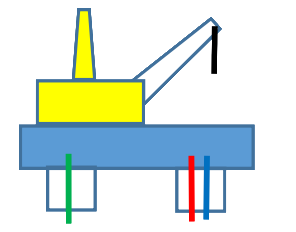
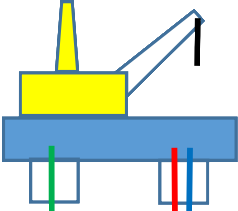
fixed few issues

Changed region(s): [[0.0, 0.0, 1.0, 1.0]]

diff --git a/src/component2_node.js b/src/component2_node.js
@@ -1,29 +1,74 @@
-import { memo } from 'react';
-import { Handle, Position } from 'reactflow';
+import React, { useEffect, useState, useRef } from "react";
+import { memo } from "react";
+import { Handle, Position, useUpdateNodeInternals } from "reactflow";
+import { drag } from "d3-drag";
+import { select } from "d3-selection";
+import styles from "./style.module.css";
 
-import { NodeResizer } from '@reactflow/node-resizer';
+import { NodeResizer } from "@reactflow/node-resizer";
 
 import component from './assets/component2.png';
 
 import '@reactflow/node-resizer/dist/style.css';
 
+let handleStyleA = { top: 19 };
+let handleStyleB = { top: 44 };
+const handleStyleC = { top:  68};
+const handleStyleD = { top: 29 };
+const handleStyleE = { top: 59 };
 
-const handleStyleA = { top: 35 };
-const handleStyleB = { top: 90 };
-const handleStyleC = { top: 65 };
-const handleStyleD = { top: 45 };
-const handleStyleE = { top: 80 };
+const ResizableNodeSelected = ({ id,data }) => {
+  const rotateControlRef = useRef(null);
+  const updateNodeInternals = useUpdateNodeInternals();
+  const [rotation, setRotation] = useState(0);
+  const [resizable, setResizable] = useState(true);
+  const [rotatable, setRotatable] = useState(true);
+  useEffect(() => {
+    if (!rotateControlRef.current) {
+      return;
+    }
 
-const ResizableNodeSelected = ({ data, selected }) => {
+    const selection = select(rotateControlRef.current);
+    const dragHandler = drag().on("drag", (evt) => {
+      const dx = evt.x - 100;
+      const dy = evt.y - 100;
+      const rad = Math.atan2(dx, dy);
+      const deg = rad * (180 / Math.PI);
+      setRotation(180 - deg);
+      updateNodeInternals(id);
+    });
+
+    selection.call(dragHandler);
+  }, [id, updateNodeInternals]);
+
+
     return (
         <>
-            <NodeResizer color="#ff0071" isVisible={selected} minWidth={100} minHeight={30} />
+        <div
+        style={{
+          transform: `rotate(${rotation}deg)`,
+        }}
+        className={styles.node}
+      >
+            <NodeResizer
+        color="#000000"
+        isVisible={resizable}
+        minWidth={10}
+        minHeight={10}
+        
+      />
             <Handle type="target" position={Position.Left} id="c2_input1" style={handleStyleA} />
             <Handle type="target" position={Position.Left} id="c2_input2" style={handleStyleB} />
             <Handle type="target" position={Position.Left} id="c2_input3" style={handleStyleC} />
-            <div style={{ padding: 10 }}><img src={component} alt="Component2"></img></div>
+            <img height="100%" width="100%" src={component} alt="Component2"></img>
             <Handle type="source" position={Position.Right} id="c2_output1" style={handleStyleD} />
             <Handle type="sorce" position={Position.Right} id="c2_output2" style={handleStyleE} />
+            <div ref={rotateControlRef}
+          style={{
+            display: rotatable ? 'block' : 'none',
+          }}
+          className={`nodrag ${styles.rotateHandle}`} ></div>   
+          </div>
         </>
     );
 };

diff --git a/src/component3_node.js b/src/component3_node.js
@@ -1,5 +1,9 @@
-import { memo } from 'react';
-import { Handle, Position } from 'reactflow';
+import React, { useEffect, useState, useRef } from "react";
+import { memo } from "react";
+import { Handle, Position, useUpdateNodeInternals } from "reactflow";
+import { drag } from "d3-drag";
+import { select } from "d3-selection";
+import styles from "./style.module.css";
 
 import { NodeResizer } from '@reactflow/node-resizer';
 
@@ -7,19 +11,62 @@ import component from './assets/component3.png';
 
 import '@reactflow/node-resizer/dist/style.css';
 
-const handleStyleA = { left: 80 };
-const handleStyleB = { left: 200 };
-const handleStyleC = { left: 220 };
+const handleStyleA = { left: 52 };
+const handleStyleB = { left: 175 };
+const handleStyleC = { left: 190 };
 
 
-const ResizableNodeSelected = ({ data, selected }) => {
+const ResizableNodeSelected = ({ id, data}) => {
+
+    const rotateControlRef = useRef(null);
+  const updateNodeInternals = useUpdateNodeInternals();
+  const [rotation, setRotation] = useState(0);
+  const [resizable, setResizable] = useState(true);
+  const [rotatable, setRotatable] = useState(true);
+
+  useEffect(() => {
+    if (!rotateControlRef.current) {
+      return;
+    }
+
+    const selection = select(rotateControlRef.current);
+    const dragHandler = drag().on("drag", (evt) => {
+      const dx = evt.x - 100;
+      const dy = evt.y - 100;
+      const rad = Math.atan2(dx, dy);
+      const deg = rad * (180 / Math.PI);
+      setRotation(180 - deg);
+      updateNodeInternals(id);
+    });
+
+    selection.call(dragHandler);
+  }, [id, updateNodeInternals]);
+
     return (
         <>
-            <NodeResizer color="#ff0071" isVisible={selected} minWidth={100} minHeight={30} />
-            <div style={{ padding: 10 }}><img src={component} alt="Component3"></img></div>
+            <div
+        style={{
+          transform: `rotate(${rotation}deg)`,
+        }}
+        className={styles.node}
+      >
+            <NodeResizer
+        color="#000000"
+        isVisible={resizable}
+        minWidth={100}
+        minHeight={30}
+      />
+      <div ref={rotateControlRef}
+          style={{
+            display: rotatable ? 'block' : 'none',
+          }}
+          className={`nodrag ${styles.rotateHandle}`} ></div>
+            <NodeResizer color="#000000" isVisible={resizable} minWidth={100} minHeight={30} />
+            <div style={{ padding: 0 }}><img src={component} alt="Component3"></img></div>
             <Handle type="target" position={Position.Bottom} id="a" style={handleStyleA} />
+            {/* <Handle type="source" position={Position.Bottom} id="a" style={handleStyleA} /> */}
             <Handle type="target" position={Position.Bottom} id="b" style={handleStyleB} />
-            <Handle type="target" position={Position.Bottom} id="c" style={handleStyleC} />
+            <Handle type="target" position={Position.Bottom} id="c" style={handleStyleC} /></div>
 
         </>
     );

diff --git a/src/component1_node.js b/src/component1_node.js
@@ -1,21 +1,69 @@
-import { memo } from 'react';
-import { Handle, Position } from 'reactflow';
+import React, { useEffect, useState, useRef } from "react";
+import { memo } from "react";
+import { Handle, Position, useUpdateNodeInternals } from "reactflow";
+import { drag } from "d3-drag";
+import { select } from "d3-selection";
+import styles from "./style.module.css";
 
-import { NodeResizer } from '@reactflow/node-resizer';
+import { NodeResizer } from "@reactflow/node-resizer";
 
-import component from './assets/component1.png';
+import component from "./assets/component1.png";
 
-import '@reactflow/node-resizer/dist/style.css';
+import "@reactflow/node-resizer/dist/style.css";
 
-const ResizableNodeSelected = ({ data, selected }) => {
-    return (
-        <>
-            <NodeResizer color="#ff0071" isVisible={selected} minWidth={100} minHeight={30} />
+const ResizableNodeSelected = ({
+  id,
+  data,
+}) => {
+  const rotateControlRef = useRef(null);
+  const updateNodeInternals = useUpdateNodeInternals();
+  const [rotation, setRotation] = useState(0);
+  const [resizable, setResizable] = useState(true);
+  const [rotatable, setRotatable] = useState(true);
 
-            <div style={{ padding: 10 }}><img src={component} alt="Component1"></img></div>
-            <Handle type="source" position={Position.Right} />
-        </>
-    );
+  useEffect(() => {
+    if (!rotateControlRef.current) {
+      return;
+    }
+
+    const selection = select(rotateControlRef.current);
+    const dragHandler = drag().on("drag", (evt) => {
+      const dx = evt.x - 100;
+      const dy = evt.y - 100;
+      const rad = Math.atan2(dx, dy);
+      const deg = rad * (180 / Math.PI);
+    //   console.log(deg);
+      setRotation(180 - deg);
+      updateNodeInternals(id);
+    });
+
+    selection.call(dragHandler);
+  }, [id, updateNodeInternals]);
+
+  return (
+    <>
+      <div
+        style={{
+          transform: `rotate(${rotation}deg)`,
+          display: "flex",
+        }}
+        className={styles.node}
+      >
+        <img src={component} alt="Component1"></img>
+      <NodeResizer
+        color="#000000"
+        isVisible={resizable}
+        minWidth={0}
+        minHeight={0}
+      ></NodeResizer>
+      <div ref={rotateControlRef}
+          style={{
+            display: rotatable ? 'block' : 'none',
+          }}
+          className={`nodrag ${styles.rotateHandle}`} ></div>
+      <Handle type="source" position={Position.Right} /></div>
+    </>
+  );
 };
 
 export default memo(ResizableNodeSelected);

diff --git a/src/App.js b/src/App.js
@@ -1,6 +1,8 @@
 import React, { useState, useRef, useCallback } from 'react';
 
 import ReactFlow, {
+  Edge,
+  Position,
   ReactFlowProvider,
   addEdge,
   useNodesState,
@@ -9,7 +11,9 @@ import ReactFlow, {
   Background,
   updateEdge,
   ConnectionLineType,
-  MarkerType, useReactFlow,
+  MarkerType,
+  useOnSelectionChange,
+   useReactFlow,
   MiniMap,
 } from 'reactflow';
 import 'reactflow/dist/style.css';
@@ -30,7 +34,6 @@ import Snackbar from '@mui/material/Snackbar';
 import Tooltip from '@mui/material/Tooltip';
 
 import './index.css';
-
 
 const flowKey = 'example-flow';
 const getNodeId = () => `randomnode_${+new Date()}`;
@@ -103,11 +106,22 @@ const App = () => {
     edgeUpdateSuccessful.current = true;
   }, []);
 
+  
+
   const onConnect = useCallback((params) => setEdges((eds) => addEdge({
-    ...params, type: "smoothstep", markerEnd: {
+    ...params, animated:true, style: { stroke: '#000000' } , markerEnd: {
       type: MarkerType.ArrowClosed,
+      width: 20,
+      height: 20,
+      color: '#000000',
     },
   }, eds)), []);
+
+  // const onConnect = useCallback(
+  //   (params) =>
+  //     setEdges((eds) => addEdge({ ...params, animated: true, style: { stroke: '#fff' } }, eds)),
+  //   []
+  // );
 
   const onDragOver = useCallback((event) => {
     event.preventDefault();
@@ -203,7 +217,7 @@ const App = () => {
         <div className="reactflow-wrapper" ref={reactFlowWrapper}>
           <header class="App-header">
             <div className="Header-spacer">
-              <label>Subsea Field Layout Editor</label>
+              <label>SubSea Field Layout Editor</label>
               <Tooltip title="Save Layout">
                 <IconButton onClick={onSave} variant="contained">
                   <SaveIcon />

diff --git a/src/style.module.css b/src/style.module.css
@@ -1,0 +1,39 @@
+.node {
+  width: 100%;
+  height: 100%;
+  border-radius: 15px;
+  /* border: 1px solid #000; */
+  /* background-color: #; */
+  box-sizing: border-box;
+  padding: 0;
+  margin:0;
+}
+
+.node :global .react-flow__resize-control.handle {
+  width: 10px;
+  height: 10px;
+  border-radius: 100%;
+}
+
+.rotateHandle {
+  position: absolute;
+  width: 10px;
+  height: 10px;
+  background: #3367d9;
+  left: 50%;
+  top: -30px;
+  border-radius: 100%;
+  transform: translate(-50%, -50%);
+  cursor: alias;
+}
+
+.rotateHandle:after {
+  content: '';
+  display: block;
+  position: absolute;
+  width: 1px;
+  height: 30px;
+  background: #3367d9;
+  left: 4px;
+  top: 5px;
+}
